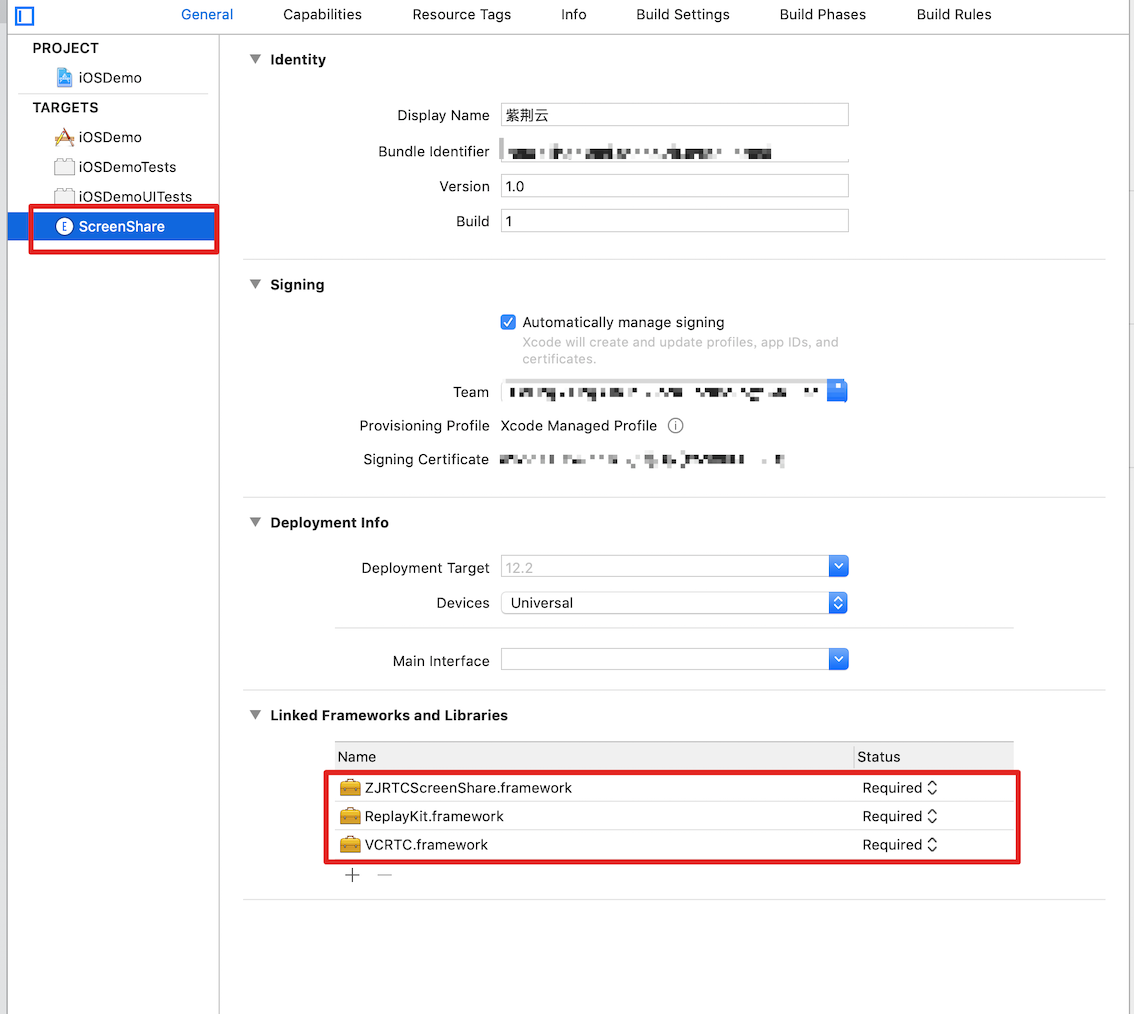
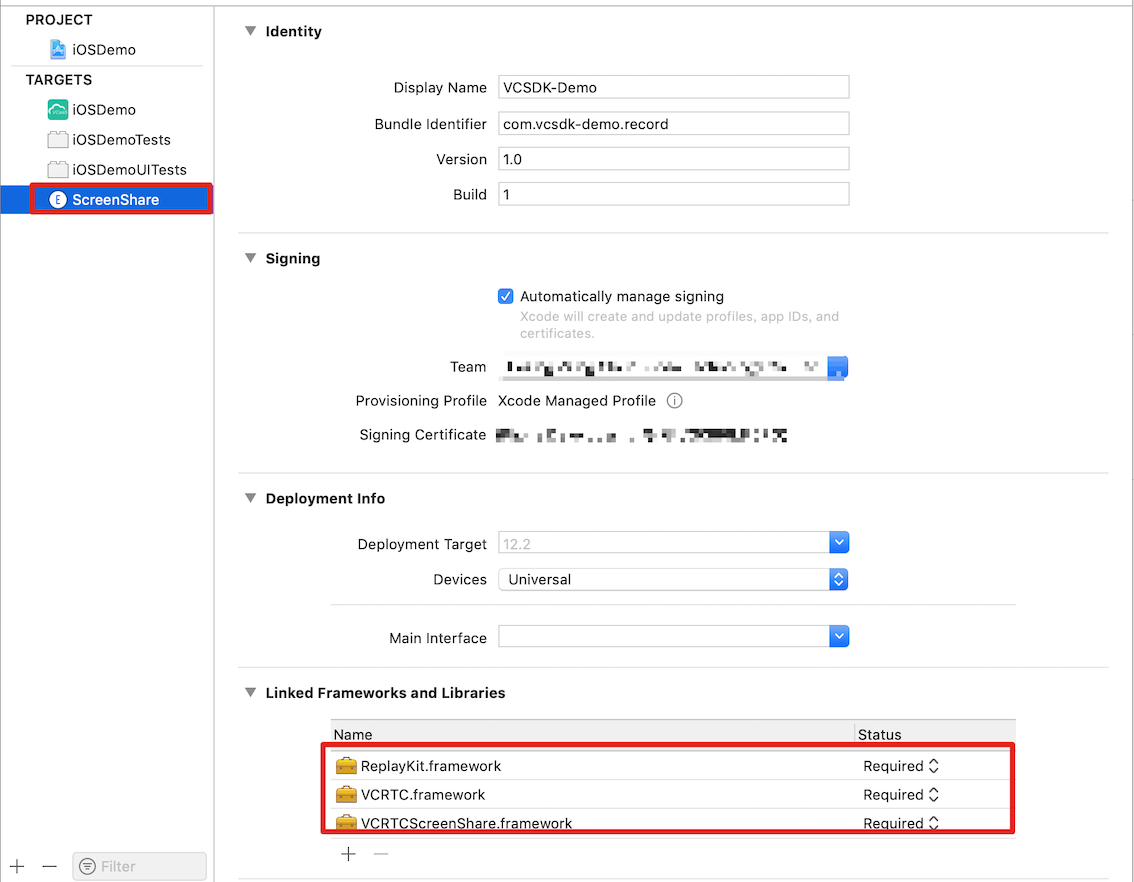
文档修改

diff --git a/cn/2_COMMON_FUNCTION/02_screensharing_tab_ios.md b/cn/2_COMMON_FUNCTION/02_screensharing_tab_ios.md
@@ -24,7 +24,7 @@
 
 ![](../_images/ios/9.png)
 
-3. 把`ZJRTCScreenShare.framework`拖入项目中
+3. 把`VCRTCScreenShare.framework`拖入项目中
 
 ![](../_images/ios/10.png)
 
@@ -54,10 +54,10 @@
 
 ##### 代码示例
 
-在`SampleHandler.m`中引用 `ZJRTCScreenShare.framework`
+在`SampleHandler.m`中引用 `VCRTCScreenShare.framework`
 
 ```objc
-#import <ZJRTCScreenShare/ZJRTCScreenShare.h>
+#import <VCRTCScreenShare/VCRTCScreenShare.h>
 ```
 
 ```objc
